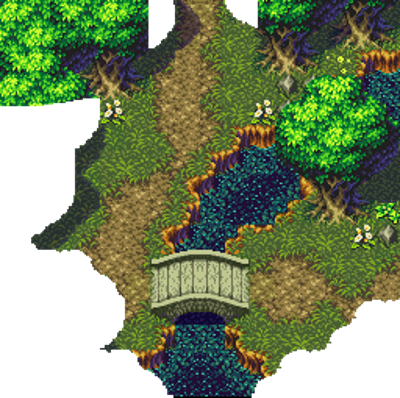
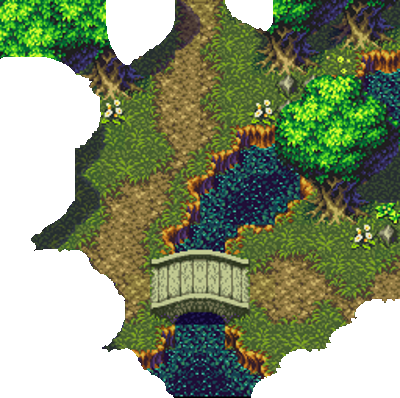
Level Collision bug fix, skeleton AI, replaced background/foreground for forest riverways
Beginnings of decision trees for monsters

diff --git a/js/level.js b/js/level.js
@@ -207,6 +207,29 @@ GAME.Level.prototype.showTitle = function(title, showDuration, fadeDuration)
 	}, showDuration * 1000);
 }
 
+GAME.Level.prototype.levelCollide = function(tileRect) 
+{
+	var colMin = Math.floor(tileRect.x / this.TW);
+	var colMax = Math.floor((tileRect.x + tileRect.width) / this.TW);
+	
+	var rowMin = Math.floor(tileRect.y / this.TH);
+	var rowMax = Math.floor((tileRect.y + tileRect.height) / this.TH);
+	
+	if (colMax > this.cols - 1 || rowMax > this.rows - 1 || colMin < 0 || rowMin < 0) {
+		return true;
+	}
+	
+	for (var i = rowMin; i <= rowMax; ++i) {
+		for (var j = colMin; j <= colMax; ++j) {
+			if (this.collisions[i][j] == 1) {
+				return true;
+			}
+		}
+	}
+	
+	return false;
+}
+
 GAME.Level.prototype.moveAndCollidePlayerX = function() 
 {
 	// move player X -> if we collide into a block, undo
@@ -256,44 +279,9 @@ GAME.Level.prototype.moveAndCollidePlayerX = function()
 		}
 	}
 	
-	//contain(GAME.player, this.bounds);
-	
 	if (this.levelCollide(GAME.player.tileBounds)) {
 		GAME.player.backout();
 	}
-	
-	contain(GAME.player, this.bounds);
-}
-
-GAME.Level.prototype.levelCollide = function(tileRect) 
-{
-	// get tiles bounded by player's tileBounds
-	var colMin = Math.floor(tileRect.x / this.TW);
-	var colMax = Math.floor((tileRect.x + tileRect.width) / this.TW);
-	
-	var rowMin = Math.floor(tileRect.y / this.TH);
-	var rowMax = Math.floor((tileRect.y + tileRect.height) / this.TH);
-	
-	if (colMin < 0) colMin = 0;
-	if (rowMin < 0) rowMin = 0;
-	
-	if (colMax > this.COLS - 1) {
-		colMax = this.COLS - 1;
-	}
-	
-	if (rowMax > this.ROWS - 1) {
-		rowMax = this.ROWS - 1;
-	}
-	
-	for (var i = rowMin; i <= rowMax; ++i) {
-		for (var j = colMin; j <= colMax; ++j) {
-			if (this.collisions[i][j] == 1) {
-				return true;
-			}
-		}
-	}
-	
-	return false;
 }
 
 GAME.Level.prototype.moveAndCollidePlayerY = function()
@@ -352,8 +340,6 @@ GAME.Level.prototype.moveAndCollidePlayerY = function()
 	if (this.levelCollide(GAME.player.tileBounds)) {
 		GAME.player.backout();
 	}
-	
-	contain(GAME.player, this.bounds);
 }
 
 GAME.Level.prototype.moveAndCollideMonsters = function()
@@ -363,22 +349,16 @@ GAME.Level.prototype.moveAndCollideMonsters = function()
 		
 		if (!this.monsters[i].alive) continue;
 		
-		// if we escape level, undo and change direction
-		if (contain(this.monsters[i], this.bounds)) {
-			this.monsters[i].changeDirection();
-			continue;
+		// check for attacking player
+		if (GAME.player.attacking && hitTestRectangle(GAME.player.slashBounds, this.monsters[i].bounds) &&
+			GAME.player.middleOfSlash()) {
+			this.monsters[i].getHit(GAME.player.calculateHit(this.monsters[i]));
 		}
 		
 		if (this.levelCollide(this.monsters[i].bounds)) {
 			this.monsters[i].backout();
 			this.monsters[i].changeDirection();
 			continue;
-		}
-		
-		// check for attacking player
-		if (GAME.player.attacking && hitTestRectangle(GAME.player.slashBounds, this.monsters[i].bounds) &&
-			GAME.player.middleOfSlash()) {
-			this.monsters[i].getHit(GAME.player.calculateHit(this.monsters[i]));
 		}
 		
 		// if we hit the player, undo

diff --git a/js/ai.js b/js/ai.js
@@ -1,0 +1,87 @@
+GAME.AIBehavior = function () {}
+
+GAME.AIBehavior.constructor = GAME.AIBehavior;
+
+/**
+ Runs directly at the player with intent to collide/attack
+ */
+GAME.AIBehavior.prototype.simpleAggress = function (monster, player) 
+{
+	var distX = player.bounds.x - monster.bounds.x;
+	var distY = player.bounds.y - monster.bounds.y;
+	var toward = unit_vector(distX, distY);
+	monster.vx = toward[0] * monster.speed; // * scalingFactorX;
+	monster.vy = toward[1] * monster.speed; // * scalingFactorY;
+}
+
+/**
+ Executes a basic attack in range
+ */
+GAME.AIBehavior.prototype.simpleAttack = function (monster, player) 
+{
+	
+}
+
+/**
+ Runs away blindly using simple reverse direction
+ */
+GAME.AIBehavior.prototype.simpleRunAway = function (monster, player)
+{
+	var distX = monster.bounds.x - player.bounds.x;
+	var distY = monster.bounds.y - player.bounds.y;
+	var toward = unit_vector(distX, distY);
+	monster.vx = toward[0] * monster.speed; // * scalingFactorX;
+	monster.vy = toward[1] * monster.speed; // * scalingFactorY;
+}
+
+/**
+ Runs away and does some projection to decide when to pivot if we will hit a corner
+ */
+GAME.AIBehavior.prototype.runAwayAvoidCorners = function (monster, player)
+{
+	
+}
+
+/**
+ Paths toward the nearest adjacent section to the player within range
+ */
+GAME.AIBehavior.prototype.aggressIntoCardinalRange = function (monster, player)
+{
+	
+}
+
+/**
+ Attacks from the monster's range as long as it is adjacent to the player and not diagonal
+ */
+GAME.AIBehavior.prototype.attackFromCardinalRange = function (monster, player)
+{
+	
+}
+
+/**
+ Simple random pathing algorithm that factors in pauses
+ */
+GAME.AIBehavior.prototype.simpleCardinalPathing = function (monster) 
+{
+	if (monster.moveFramesLeft == 0) {
+		monster.moveFramesLeft = randomInt(100, 200);
+		monster.moveDirection = randomInt(1, 7);
+		if (monster.moveDirection > 4) {
+			monster.moveFramesLeft = 60;
+		}
+	} else {
+		--monster.moveFramesLeft;
+	}
+	
+	if (monster.moveDirection == 1) {
+		monster.moveUp();
+	} else if (monster.moveDirection == 2) {
+		monster.moveLeft();
+	} else if (monster.moveDirection == 3) {
+		monster.moveDown();
+	} else if (monster.moveDirection == 4) {
+		monster.moveRight();
+	} else {
+		monster.stop();
+	}
+}

diff --git a/js/enemy.js b/js/enemy.js
@@ -17,6 +17,7 @@ GAME.Enemy = function(name)
 	this.name = data.NAME;
 	this.exp = data.EXP;
 	this.health = data.HEALTH;
+	this.maxHealth = data.HEALTH;
 	this.speed = data.SPEED;
 	this.loot = data.LOOT;
 	this.aggressive = data.AGGRESSIVE;
@@ -129,13 +130,13 @@ GAME.Enemy.prototype.spawnDamageText = function (text, duration, color)
 	});
 
 	var textSprite = new PIXI.Text(text, style);
-	textSprite.position.x = this.position.x;
-	textSprite.position.y = this.position.y - this.bounds.height;
 	textSprite.updateText();
 	
 	this.damageTime = 0;
 	this.damageTextDuration = duration;
 	this.damageText = new PIXI.Sprite(textSprite.texture);
+	this.damageText.position.x = this.position.x;
+	this.damageText.position.y = this.position.y - this.bounds.height;
 	
 	// tween x value
 	this.damageText.moveX = 0;
@@ -274,6 +275,13 @@ GAME.Enemy.prototype.behave = function()
 
 	// TODO - CONFIGURE BEHAVIOR ON A MONSTER TO MONSTER BASIS
 	
+	if (this.health < this.maxHealth / 2) {
+		GAME.ai.simpleRunAway(this, GAME.player);
+	} else {
+		GAME.ai.simpleCardinalPathing(this);
+	}
+	
+	/*
 	if (this.moveFramesLeft == 0) {
 		this.moveFramesLeft = randomInt(100, 200);
 		this.moveDirection = randomInt(1, 7);
@@ -294,7 +302,7 @@ GAME.Enemy.prototype.behave = function()
 		this.moveRight();
 	} else {
 		this.stop();
-	}
+	}*/
 }
 
 GAME.Enemy.prototype.updateHit = function()

diff --git a/index.html b/index.html
@@ -11,6 +11,7 @@
 		<script type="text/javascript" src="pixi.js"></script>
 		<script src="js/constants.js"></script>
 		<script src="js/healthbar.js"></script>
+		<script src="js/ai.js"></script>
 		<script src="js/audio.js"></script>
 		<script src="js/time.js"></script>
 		<script src="js/engine.js"></script>

diff --git a/js/engine.js b/js/engine.js
@@ -6,6 +6,7 @@ GAME.Engine = function()
 	GAME.level = new GAME.Level(this);
 	GAME.input = new GAME.Input();
 	GAME.audio = new GAME.Audio();
+	GAME.ai = new GAME.AIBehavior();
 
 	this.view = new GAME.View(this);
 }
